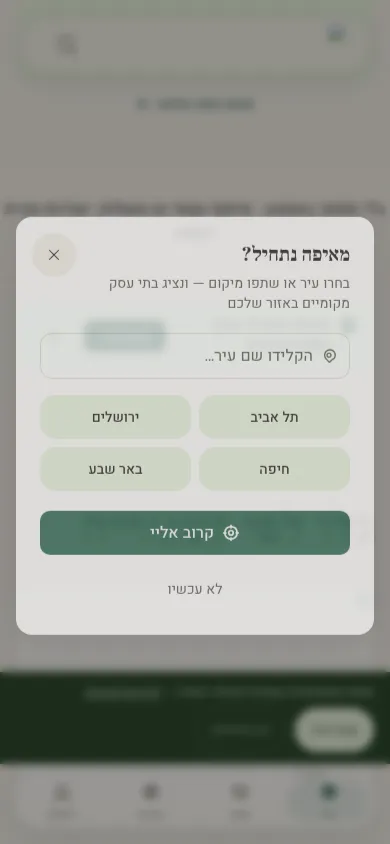
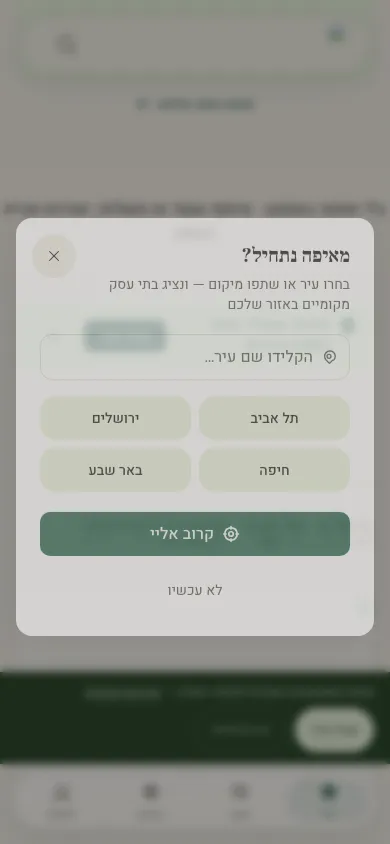
fix(a11y): 44px tap target on LoginPromptModal close, per the rule this PR adds
Accepting the CI reviewer's "Should Consider" on #2842. I had deferred this as
out of scope — the ticket names the 44px target only for CertModal — but that
reasoning does not survive the reviewer's point: the rtl.md rule added in THIS
PR makes 44px normative, so shipping the rule and a 28px close button together
puts the rule's first counterexample inside the commit that introduces it.

The button is 28px today (p-1 + a 20px glyph). w-11 h-11 with the icon centred
changes nothing at rest — the hover state is a text-colour change, not a
background — so this grows the hit area and the focus ring, and nothing else.

The reserve had to grow with it, and this is the part worth noting: the padding
is a function of the button's WIDTH, so widening the button 28 -> 44px pushed
its footprint from 40px to 56px in from the card edge and left px-6 (48px)
short by 8px. Growing the button without re-deriving the pad would have
re-opened the exact collision this PR exists to close. px-6 -> px-8.

Caught by the harness, not by reading: requireTap44 is now ON for this modal,
and the long-title control moved to px-8. 22 assertions, 0 failed.

Refs MEH-2038

Builder-Model: claude-opus-5
Claude-Session: https://claude.ai/code/session_01Lo36MWQC2w6vWcv9eciq7Y

diff --git a/frontend/components/LoginPromptModal.jsx b/frontend/components/LoginPromptModal.jsx
@@ -98,19 +98,22 @@ export default function LoginPromptModal({
           type="button"
           onClick={onClose}
           aria-label={t("close_aria")}
-          className="absolute top-3 end-3 text-fg-muted hover:text-text transition p-1 rounded-lg focus-visible:ring-2 focus-visible:ring-primary/40"
+          className="absolute top-3 end-3 w-11 h-11 flex items-center justify-center text-fg-muted hover:text-text transition rounded-lg focus-visible:ring-2 focus-visible:ring-primary/40"
         >
           <X size={20} weight="bold" aria-hidden="true" />
         </button>
 
-        {/* MEH-2038: the button reaches 40px in from the card edge and the p-6
-            content box starts at 24px, so 16px needs clearing. Reserved
-            SYMMETRICALLY (px-6, not pe-6) because this panel is text-center —
-            a one-sided pad would visibly shift the heading off its centre
-            while the body copy below stayed centred. */}
+        {/* MEH-2038: the button spans 12→56px in from the card edge (end-3 +
+            w-11) and the p-6 content box starts at 24px, so 32px needs
+            clearing — px-8. Reserved SYMMETRICALLY (px-8, not pe-8) because
+            this panel is text-center: a one-sided pad would visibly shift the
+            heading off its centre while the body copy below stayed centred.
+            The reserve is tied to the button's WIDTH, so it grew with it — at
+            the earlier 28px button px-6 was enough. Growing a close button
+            without re-deriving this number re-opens the collision. */}
         <h2
           id="login-prompt-title"
-          className="font-headline-md text-xl font-bold text-text mb-3 px-6"
+          className="font-headline-md text-xl font-bold text-text mb-3 px-8"
         >
           {t("title")}
         </h2>
